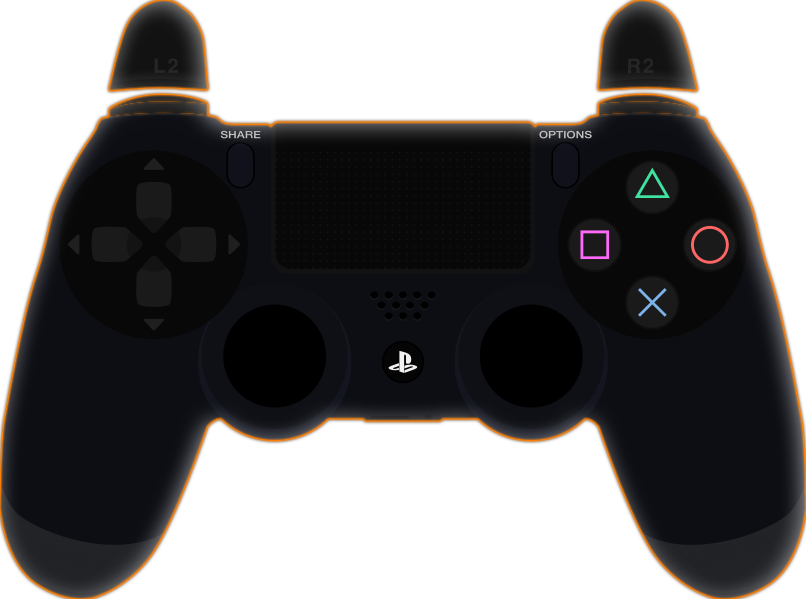
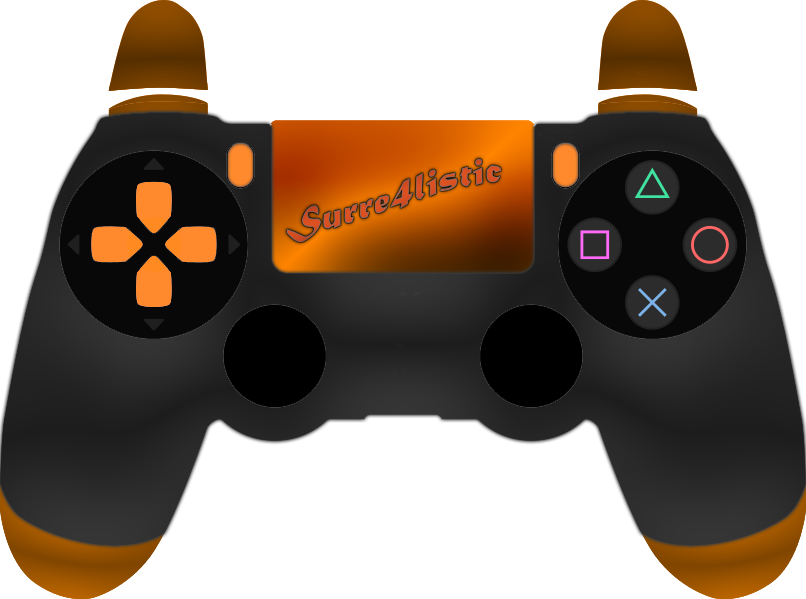
Add files via upload

diff --git a/style.css b/style.css
@@ -1,46 +1,16 @@
+.controller.ds4.white {
+    background-image: url(base.png);
+}
 
-/*BEGIN PS4 Controller Styling*/
-.controller.ds4 {
-    background: url(base.png);
-    height: 598px;
-    width: 806px;
-    /*    margin-left: -403px;
-        margin-top: -280px;*/
+.ds4.white .trigger {
+    background-image: url(triggers.png);
+}
+
+.ds4.white .bumper {
+    background-image: url(bumper.png);
 }
 
 
-.ds4 .sticks {
-    position: absolute;
-    width: 361px;
-    height: 105px;
-    top: 308px;
-    left: 228px;
+.ds4.white .stick {
+    background-image: url(sticks.png);
 }
-
-.ds4 .stick {
-    position: absolute;
-    background: url(sticks.png);
-    height: 94px;
-    width: 94px;
-}
-
-.ds4 .stick.pressed.left {
-    background-position-x: -96px;
-}
-
-.ds4 .stick.pressed.right {
-    background-position-x: -192px;
-}
-
-.ds4 .stick.left {
-    top: 0;
-    left: 0;
-}
-
-.ds4 .stick.right {
-    top: calc(100% - 105px);
-    left: calc(100% - 105px);
-}
-
-
-/*END PS4 Controller Styling*/
